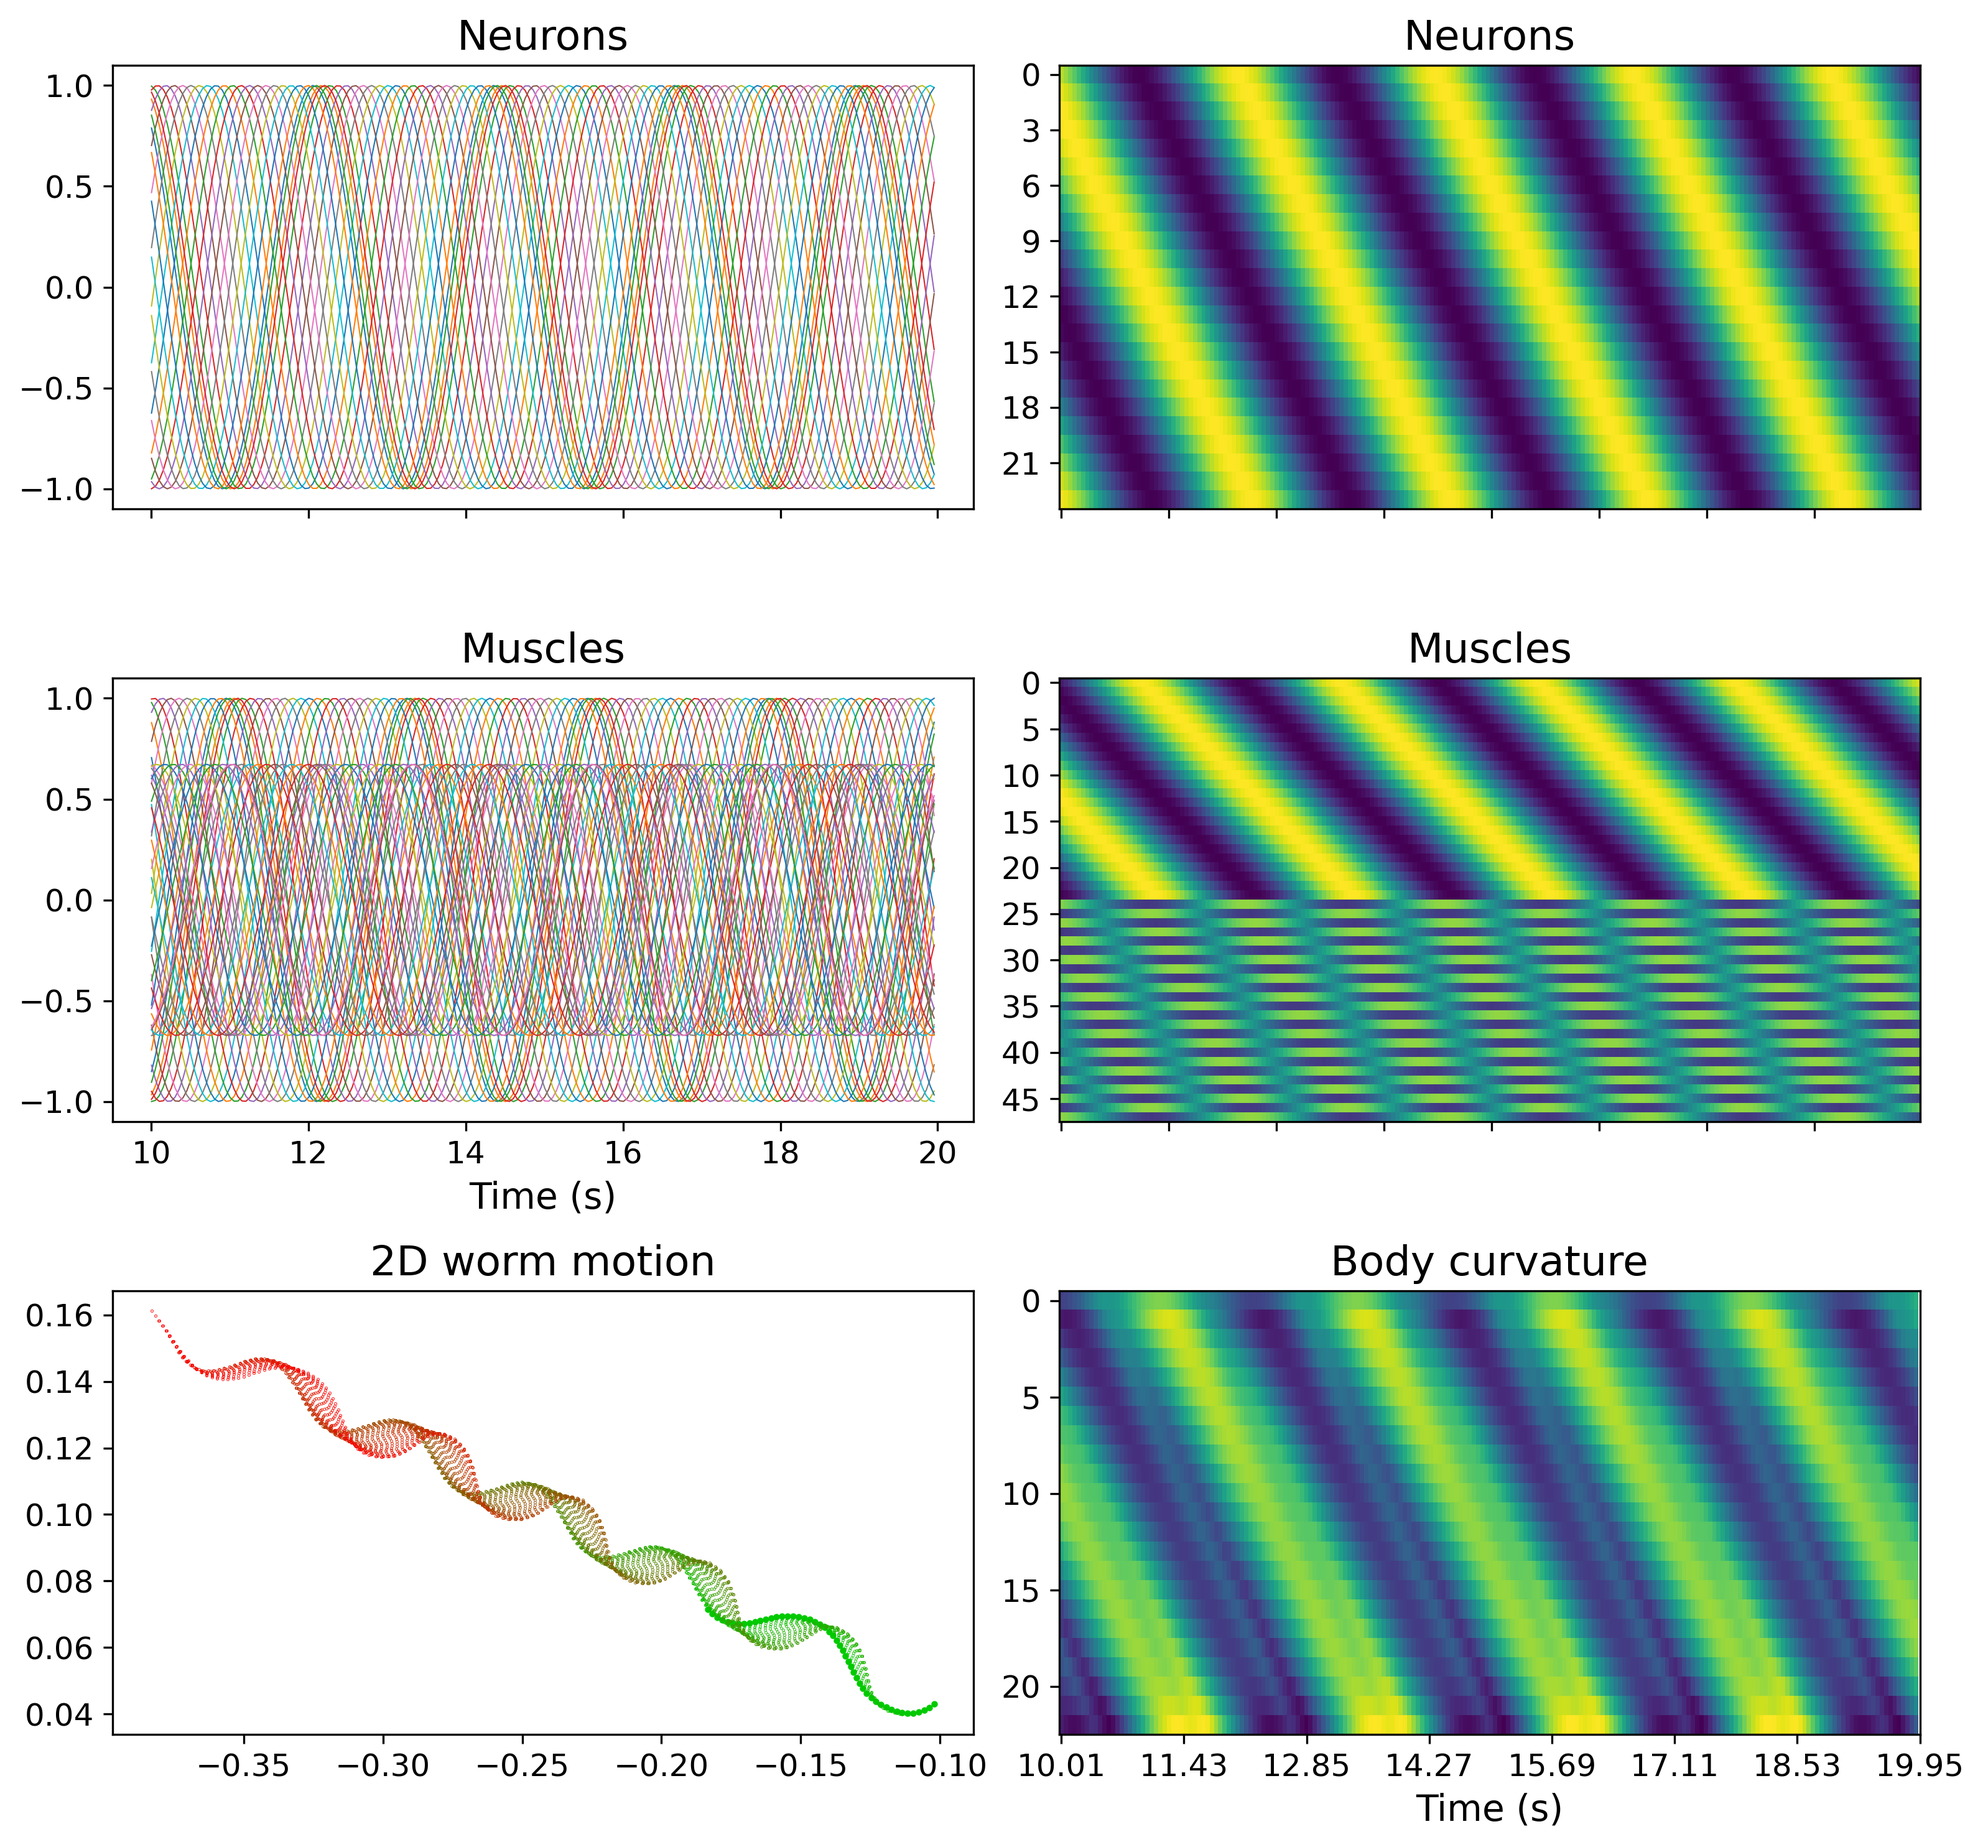
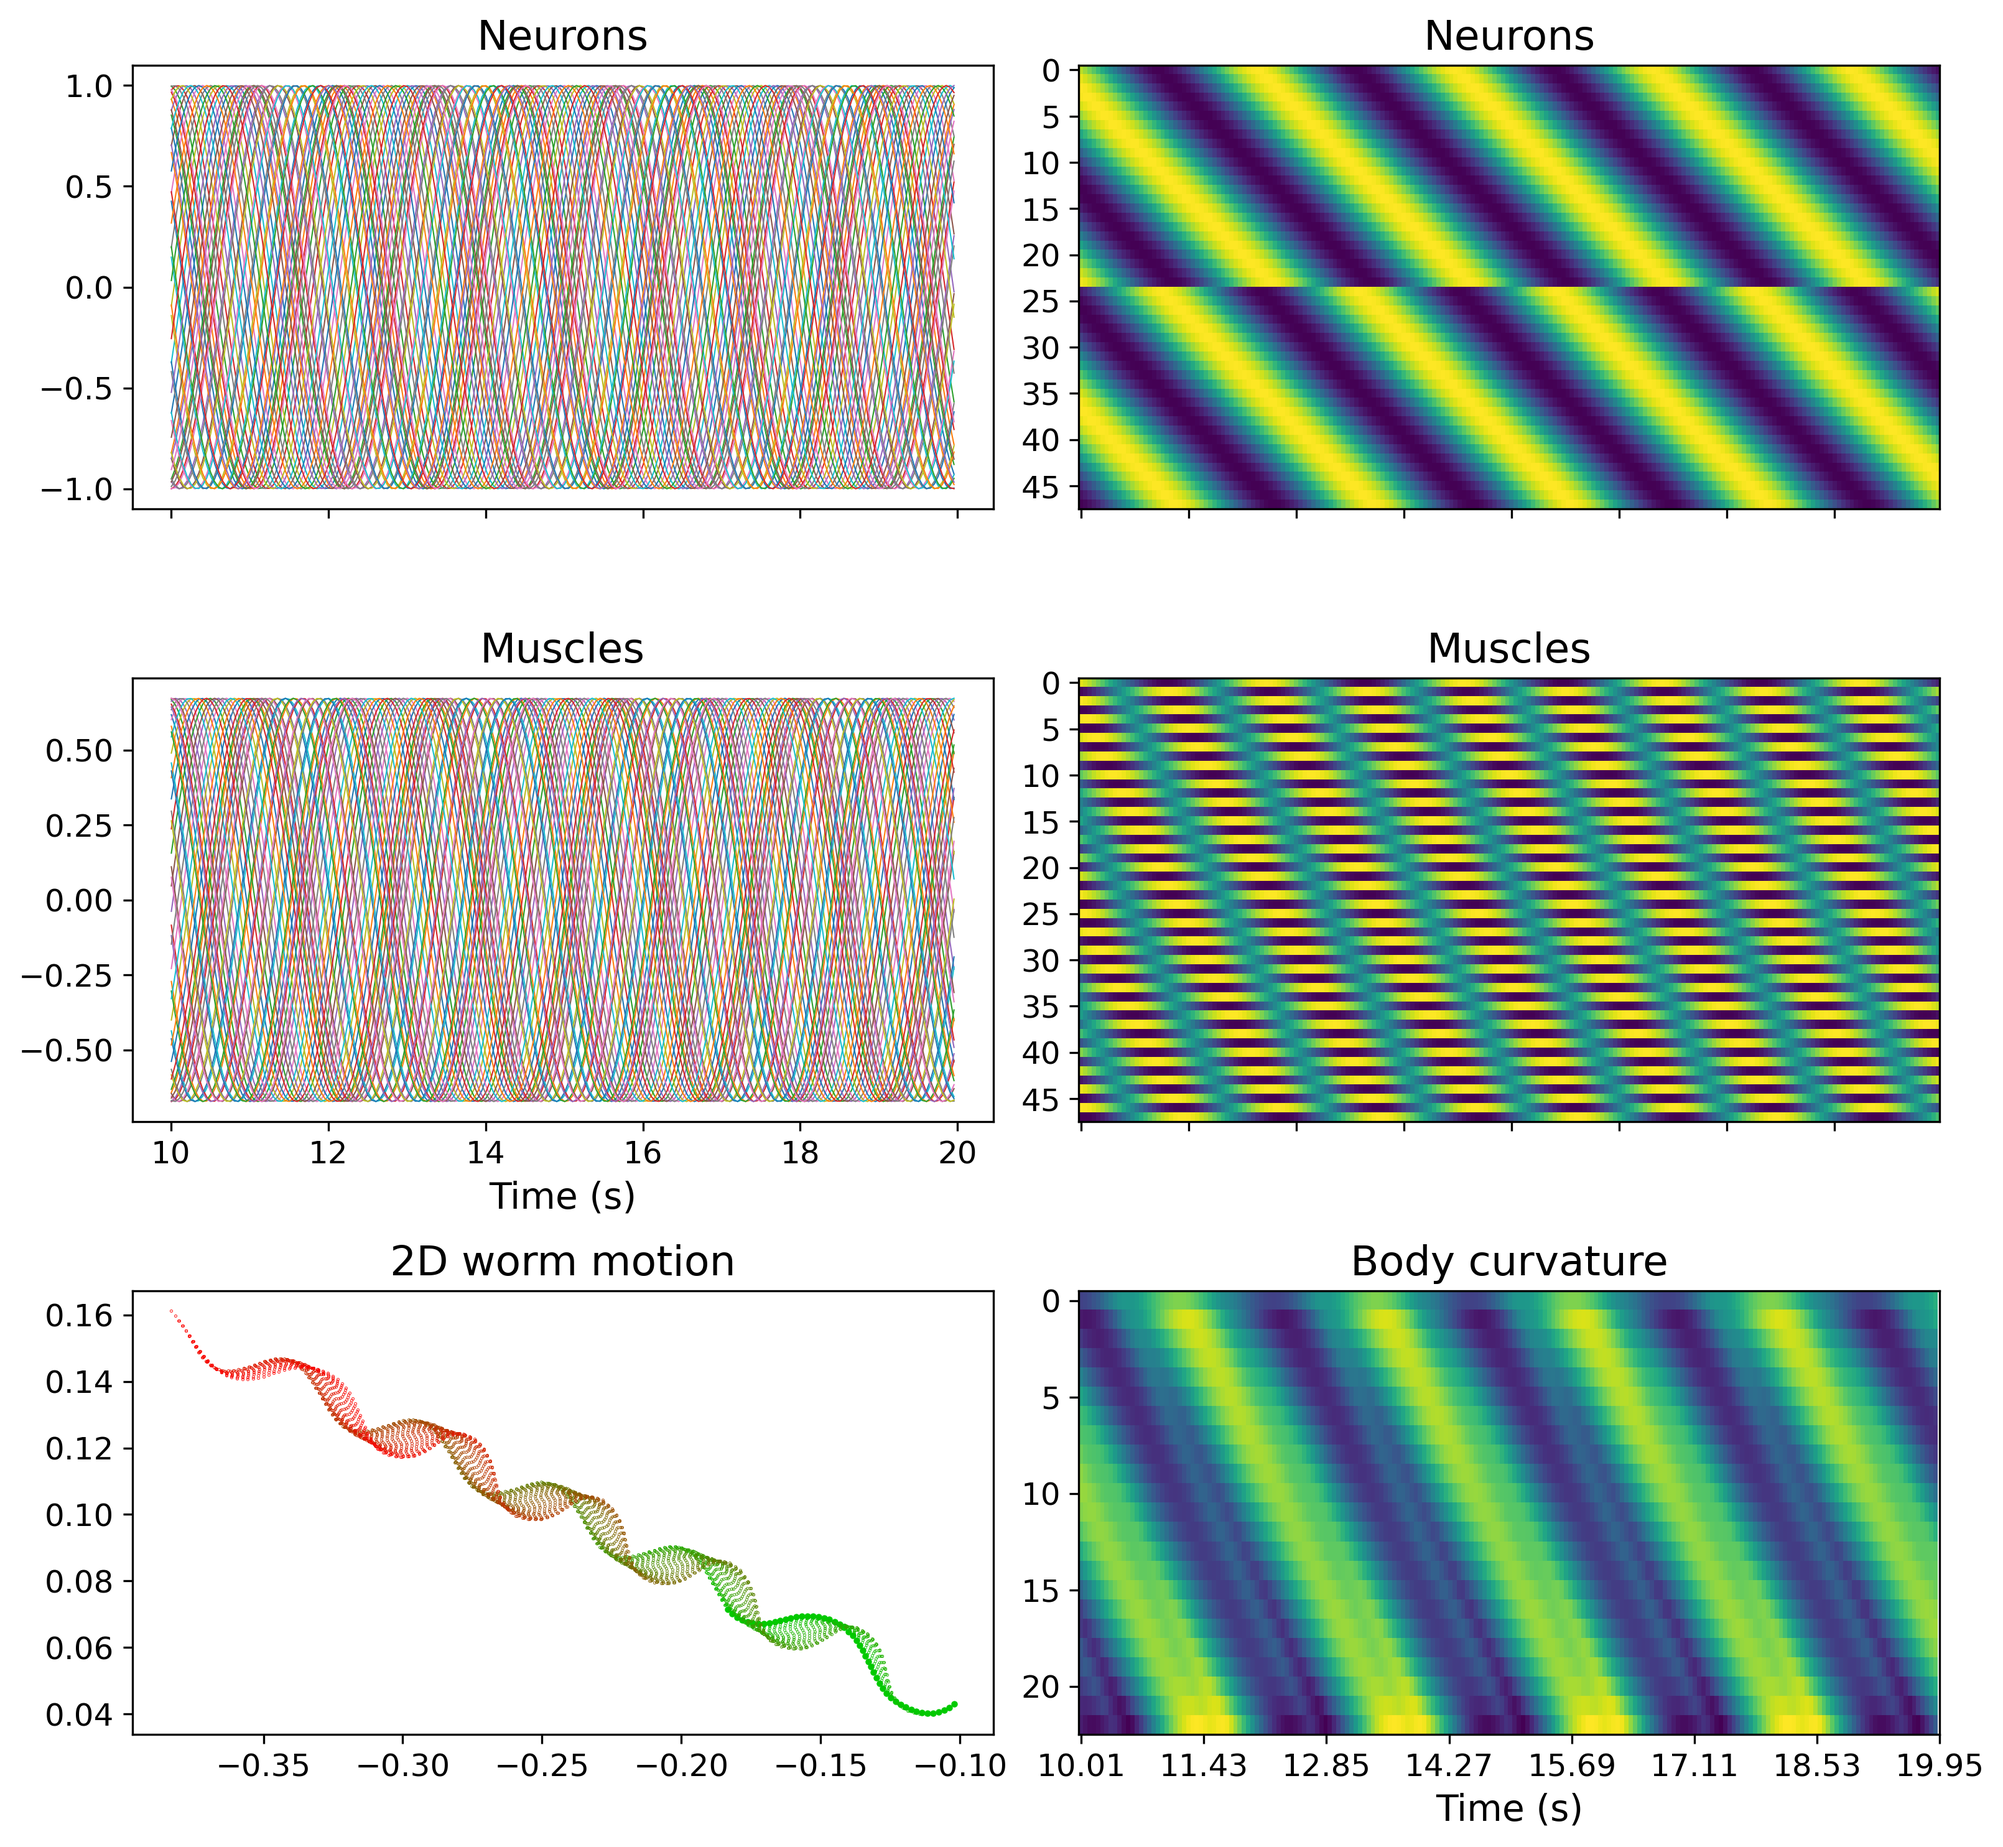
fixed plotting bug

diff --git a/Worm2D/Worm2Dmods.cpp b/Worm2D/Worm2Dmods.cpp
@@ -12,7 +12,14 @@ Worm2DoscHalf::Worm2DoscHalf():Worm2Dosc(24),
 Worm2Dm({24,24,0.1,1,24}, new NSosc(), new Muscles){}
 
 
-
+Worm2Dosc::Worm2Dosc(const Worm2Dosc& w):Worm2D({w.n.pfa1.size,24,0.1,1,w.n.pfa1.size},0),
+Worm2Dm({w.n.pfa1.size,24,0.1,1,w.n.pfa1.size}, new NSosc(w.n.pfa1), new Muscles),
+n(dynamic_cast<NSosc&>(*n_ptr)),pars1(w.pars1)
+{
+    cout << "Worm2Dosc copy" << endl;
+    setUpMuscleConn();
+    n.setTime(t);
+}
 
 Worm2Dosc::Worm2Dosc(const pfa & pfa_, const Worm2Doscpars & pars1_):Worm2D({pfa_.size,24,0.1,1,pfa_.size},0),
 Worm2Dm({pfa_.size,24,0.1,1,pfa_.size}, new NSosc(pfa_), new Muscles),

diff --git a/load_data.py b/load_data.py
@@ -112,8 +112,8 @@ plot_formats["CO18"]["do_curv_plot"] = False
 plot_formats["CO18Full"] = plot_formats["CO18"]
 plot_formats["W2Dosc"] = plot_formats["Net21"]
 plot_formats["W2Dosc"]["data_sizes"] = [48, 48]
-plot_formats["W2DoscH"] = plot_formats["W2Dosc"]
-plot_formats["W2DoscH"]["data_sizes"] = [24, 48]
+#plot_formats["W2DoscH"] = plot_formats["W2Dosc"]
+#plot_formats["W2DoscH"]["data_sizes"] = [24, 48]
 
 
 DEFAULTS = {"modelName": None, "showPlot": True, "folderName": None, "verbose": False}

diff --git a/testW2Dosc.py b/testW2Dosc.py
@@ -11,7 +11,7 @@ run(
     modelName="W2Dosc",
     modelFolder="Worm2D",
     outputFolderName="exampleRunW2Dosc",
-    doEvol=True,
+    doEvol=False,
     overwrite=True,
     checkPointInterval=5,
     reRand=True,

diff --git a/Worm2D/Worm2Dmods.h b/Worm2D/Worm2Dmods.h
@@ -47,6 +47,7 @@ class Worm2Dosc : public Worm2D, public Evolvable
 {
 
 public:
+Worm2Dosc(const Worm2Dosc&);
 Worm2Dosc(int size_);
 Worm2Dosc(const string & filename_);
 Worm2Dosc();
